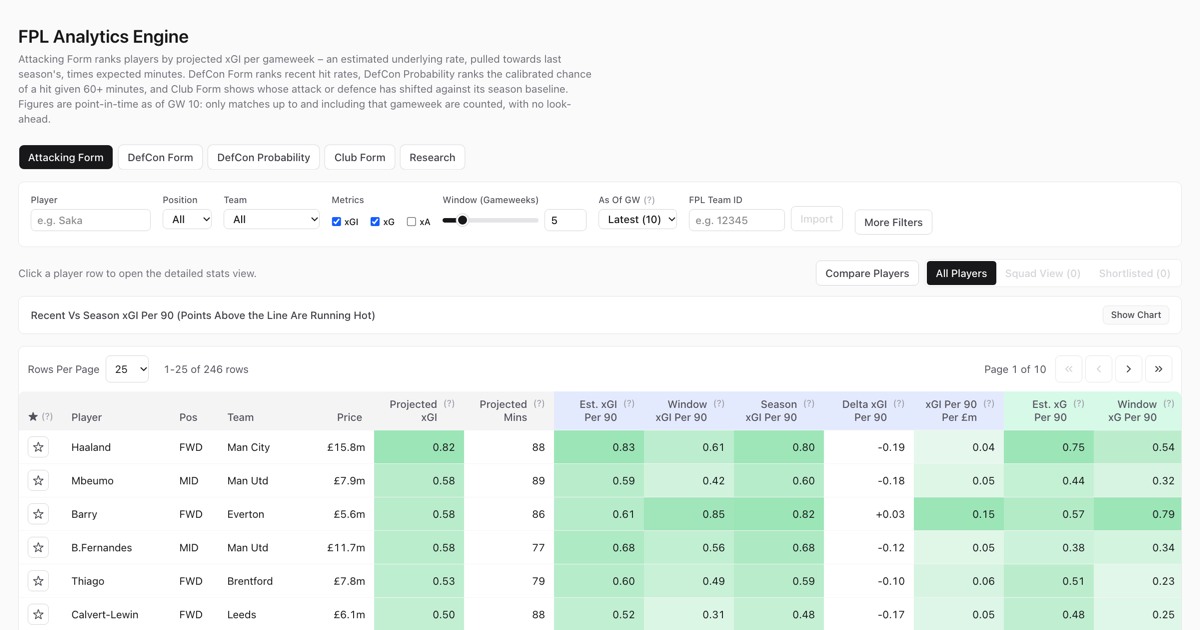
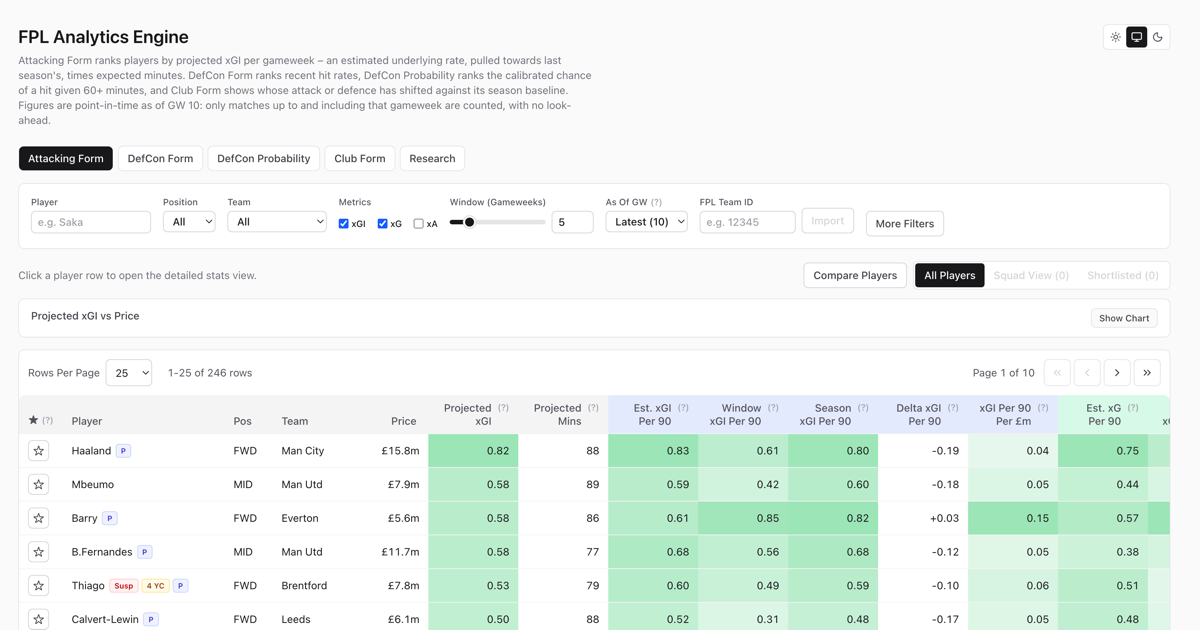
chore(frontend): Replace boilerplate README and refresh Open Graph image (#114)

diff --git a/frontend/README.md b/frontend/README.md
@@ -1,73 +1,16 @@
-# React + TypeScript + Vite
+# FPL Analytics Engine Frontend
 
-This template provides a minimal setup to get React working in Vite with HMR and some ESLint rules.
+React 19, TypeScript, Vite, Tailwind CSS, TanStack Table, TanStack Query, and
+Recharts dashboard for the [FPL Analytics Engine](../README.md).
 
-Currently, two official plugins are available:
+## Commands
 
-- [@vitejs/plugin-react](https://github.com/vitejs/vite-plugin-react/blob/main/packages/plugin-react) uses [Oxc](https://oxc.rs)
-- [@vitejs/plugin-react-swc](https://github.com/vitejs/vite-plugin-react/blob/main/packages/plugin-react-swc) uses [SWC](https://swc.rs/)
+Run from `frontend/` (expects the FastAPI backend on port `8000` for `dev`):
 
-## React Compiler
-
-The React Compiler is not enabled on this template because of its impact on dev & build performances. To add it, see [this documentation](https://react.dev/learn/react-compiler/installation).
-
-## Expanding the ESLint configuration
-
-If you are developing a production application, we recommend updating the configuration to enable type-aware lint rules:
-
-```js
-export default defineConfig([
-  globalIgnores(['dist']),
-  {
-    files: ['**/*.{ts,tsx}'],
-    extends: [
-      // Other configs...
-
-      // Remove tseslint.configs.recommended and replace with this
-      tseslint.configs.recommendedTypeChecked,
-      // Alternatively, use this for stricter rules
-      tseslint.configs.strictTypeChecked,
-      // Optionally, add this for stylistic rules
-      tseslint.configs.stylisticTypeChecked,
-
-      // Other configs...
-    ],
-    languageOptions: {
-      parserOptions: {
-        project: ['./tsconfig.node.json', './tsconfig.app.json'],
-        tsconfigRootDir: import.meta.dirname,
-      },
-      // other options...
-    },
-  },
-])
-```
-
-You can also install [eslint-plugin-react-x](https://github.com/Rel1cx/eslint-react/tree/main/packages/plugins/eslint-plugin-react-x) and [eslint-plugin-react-dom](https://github.com/Rel1cx/eslint-react/tree/main/packages/plugins/eslint-plugin-react-dom) for React-specific lint rules:
-
-```js
-// eslint.config.js
-import reactX from 'eslint-plugin-react-x'
-import reactDom from 'eslint-plugin-react-dom'
-
-export default defineConfig([
-  globalIgnores(['dist']),
-  {
-    files: ['**/*.{ts,tsx}'],
-    extends: [
-      // Other configs...
-      // Enable lint rules for React
-      reactX.configs['recommended-typescript'],
-      // Enable lint rules for React DOM
-      reactDom.configs.recommended,
-    ],
-    languageOptions: {
-      parserOptions: {
-        project: ['./tsconfig.node.json', './tsconfig.app.json'],
-        tsconfigRootDir: import.meta.dirname,
-      },
-      // other options...
-    },
-  },
-])
+```bash
+bun install
+bun run dev      # Start Vite dev server at http://localhost:5173
+bun run lint     # Lint and check formatting with Biome
+bun run build    # Type-check with tsc and build with Vite
+bun run test     # Run Vitest + Testing Library component tests
 ```
